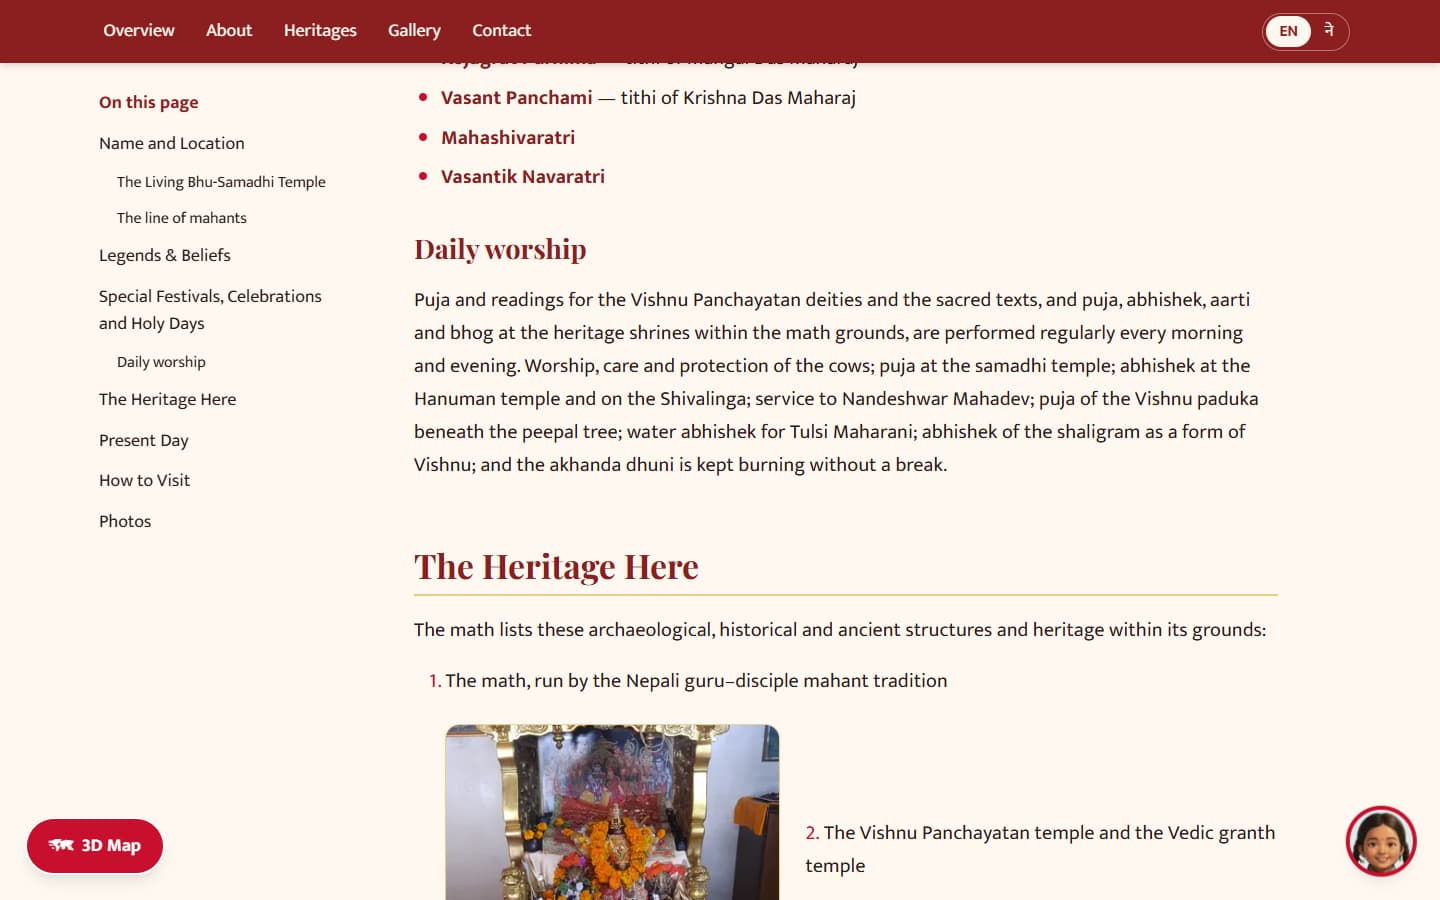
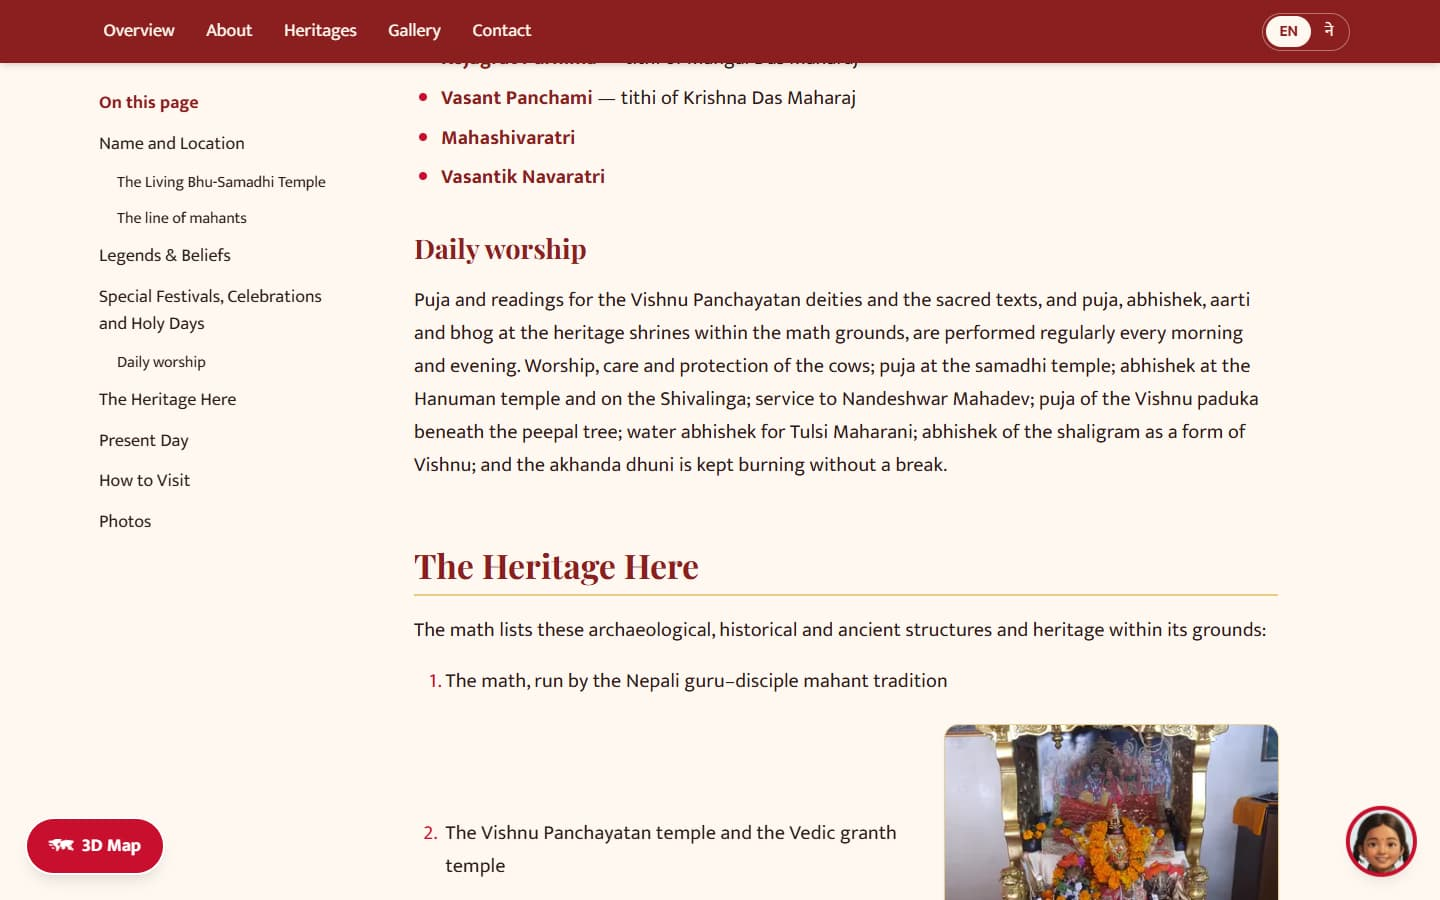
Nanak heritage list: text left, photo right for every item; text first on phones
- rehype-section-photos: text comes before the photo in the HTML, with
  no left/right alternation. From 768 px the text is on the left and the
  photo on the right for every item; on phones the text comes first and
  the photo underneath (and screen readers read the item before its
  photo).
- globals.css: dropped the photo-right rule. The item number hangs in
  the list's number column, so it lines up with items without a photo
  (0 px offset at 375/768/1440 in EN and NE).
- Unchanged: content, photo mappings, rounded images, lazy loading,
  gallery alt text, responsive sizes.

Checked: strict `npm run build` + verify-output; browser checks 33/33
at 375, 768 and 1440 px in EN and NE, no page errors. Screenshots
updated in docs/screenshots/heritage-photos/.

Changed region(s): [[0.2812, 0.7778, 0.9062, 1.0]]

diff --git a/src/lib/rehype-section-photos.ts b/src/lib/rehype-section-photos.ts
@@ -22,15 +22,17 @@ const SIZES = "(min-width: 48rem) 18rem, 100vw";
  * items of the first numbered list in a section, e.g. the "यहाँ भएका सम्पदाहरू" / "The Heritage Here"
  * list of the Nanak Math page. Which photo goes with which item is set in content/section-photos.json.
  *
- *   <li class="has-photo photo-left">
+ *   <li class="has-photo">
  *     <div class="item-row">
- *       <a class="item-photo" href="…"><img …></a>
  *       <div class="item-text">…the item's own text…</div>
+ *       <a class="item-photo" href="…"><img …></a>
  *     </div>
  *   </li>
  *
- * Photos alternate left/right (photo-left, photo-right) from 768 px; on phones they sit on top
- * (styles in globals.css, .heritage-prose). A missing section or item number fails the build.
+ * Text comes first, so phones show the text with the photo underneath (and screen readers read the
+ * item before its photo); from 768 px the text is on the left and the photo on the right, the same
+ * for every item (styles in globals.css, .heritage-prose). A missing section or item number fails
+ * the build.
  */
 export default function rehypeSectionPhotos(options: { photos: SectionPhotos }) {
   return (tree: Root, file: VFile) => {
@@ -41,15 +43,13 @@ export default function rehypeSectionPhotos(options: { photos: SectionPhotos }) 
         return;
       }
       const lis = list.children.filter((child): child is Element => child.type === "element" && child.tagName === "li");
-      let shown = 0;
       for (const [number, photo] of Object.entries(items)) {
         const li = lis[Number(number) - 1];
         if (!li) {
           file.fail(`content/section-photos.json: #${sectionId} has no list item ${number} (it has ${lis.length})`);
           return;
         }
-        shown += 1;
-        wrap(li, photo, shown % 2 === 1 ? "photo-left" : "photo-right");
+        wrap(li, photo);
       }
     }
   };
@@ -66,7 +66,7 @@ function firstListInSection(tree: Root, sectionId: string): Element | null {
   return null;
 }
 
-function wrap(li: Element, photo: SectionPhoto, side: "photo-left" | "photo-right") {
+function wrap(li: Element, photo: SectionPhoto) {
   const image: Element = {
     type: "element",
     tagName: "img",
@@ -89,7 +89,7 @@ function wrap(li: Element, photo: SectionPhoto, side: "photo-left" | "photo-righ
     children: [image],
   };
   const text: Element = { type: "element", tagName: "div", properties: { className: ["item-text"] }, children: li.children };
-  const row: Element = { type: "element", tagName: "div", properties: { className: ["item-row"] }, children: [link, text] };
-  li.properties = { ...li.properties, className: ["has-photo", side] };
+  const row: Element = { type: "element", tagName: "div", properties: { className: ["item-row"] }, children: [text, link] };
+  li.properties = { ...li.properties, className: ["has-photo"] };
   li.children = [row] as ElementContent[];
 }

diff --git a/src/app/globals.css b/src/app/globals.css
@@ -113,21 +113,22 @@
       @apply bg-sand font-bold text-brick;
     }
     /* List items with a photo (content/section-photos.json, src/lib/rehype-section-photos.ts):
-       photo on top on phones; from 768 px photo and text side by side, alternating sides. */
+       on phones the text with the photo underneath; from 768 px text on the left, photo on the right. */
     /* The list number would line up with the bottom of the photo, so it moves to the start of the
        item's text instead (the browser's own list counter, so numbering stays the same). */
     & li.has-photo {
       @apply my-6 list-none;
     }
+    /* Hung in the list's number column, so it lines up with the numbers of items without a photo. */
+    & li.has-photo .item-text {
+      @apply relative;
+    }
     & li.has-photo .item-text::before {
-      @apply mr-1 text-crimson;
+      @apply absolute right-full pr-[0.4em] text-crimson;
       content: counter(list-item) ".";
     }
     & .item-row {
       @apply flex flex-col gap-3 md:flex-row md:items-center md:gap-6;
-    }
-    & li.photo-right .item-row {
-      @apply md:flex-row-reverse;
     }
     & .item-photo {
       @apply block shrink-0 md:w-2/5;

diff --git a/docs/screenshots/heritage-photos/README.md b/docs/screenshots/heritage-photos/README.md
@@ -4,10 +4,10 @@ Captured on 17 Nov 2026 in Microsoft Edge from the strict `npm run build`, branc
 
 | File | What it shows |
 |---|---|
-| `heritage-here-en-375.jpg`, `heritage-here-ne-375.jpg` | Phones: the photo sits above the item's text |
-| `heritage-here-en-768.jpg`, `heritage-here-ne-768.jpg` | From 768 px: photo and text side by side |
+| `heritage-here-en-375.jpg`, `heritage-here-ne-375.jpg` | Phones: the item's text first, the photo underneath |
+| `heritage-here-en-768.jpg`, `heritage-here-ne-768.jpg` | From 768 px: text on the left, photo on the right |
 | `heritage-here-en-1440.jpg`, `heritage-here-ne-1440.jpg` | Desktop, start of the section |
-| `heritage-here-en-1440-list.jpg`, `heritage-here-ne-1440-list.jpg` | The whole list: photos alternate left and right; items without a photo stay plain |
+| `heritage-here-en-1440-list.jpg`, `heritage-here-ne-1440-list.jpg` | The whole list: text left and photo right for every item with a photo; items without a photo stay plain |
 
 Nine items have a photo, set in `content/section-photos.json`. Each photo:
 - is lazy-loaded with the usual responsive sizes;
@@ -15,11 +15,11 @@ Nine items have a photo, set in `content/section-photos.json`. Each photo:
 - uses the alt text from that language's gallery;
 - links to the Nanak Math photos in the gallery.
 
-The item number moves to the start of the item's text, so it doesn't line up with the bottom of the photo.
+Each item's number stays at the start of its text, in the same column as the numbers of items without a photo.
 
 Browser checks (33/33, no page errors), at 375, 768 and 1440 px in EN and NE:
 - the section heading;
-- nine photos, alternating from 768 px and stacked on phones;
+- nine photos, text left and photo right from 768 px, text then photo on phones;
 - lazy loading, alt text, rounded corners and the gallery link;
 - no Sources section;
 - the new English name.
